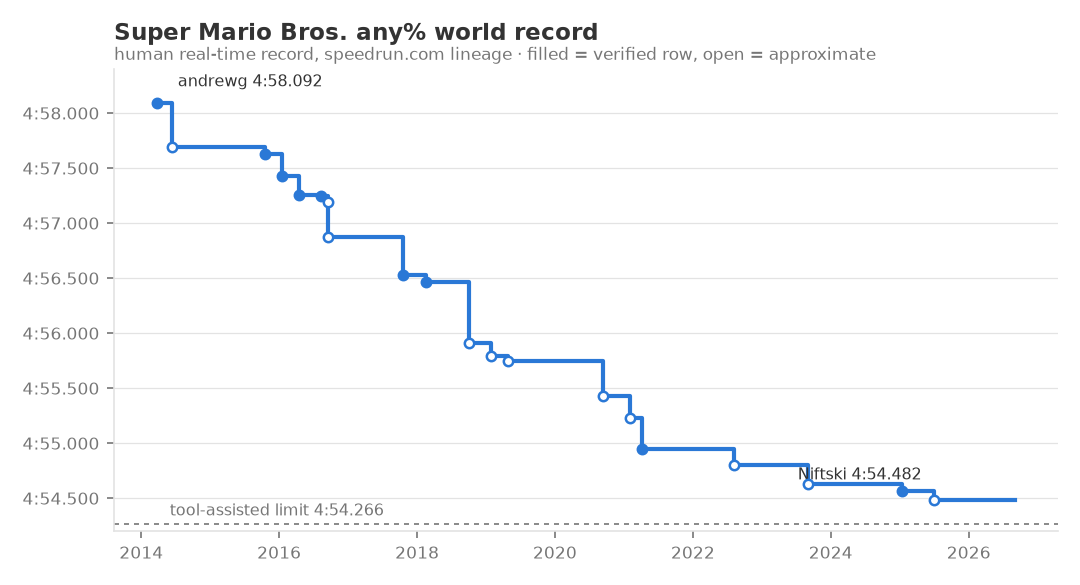
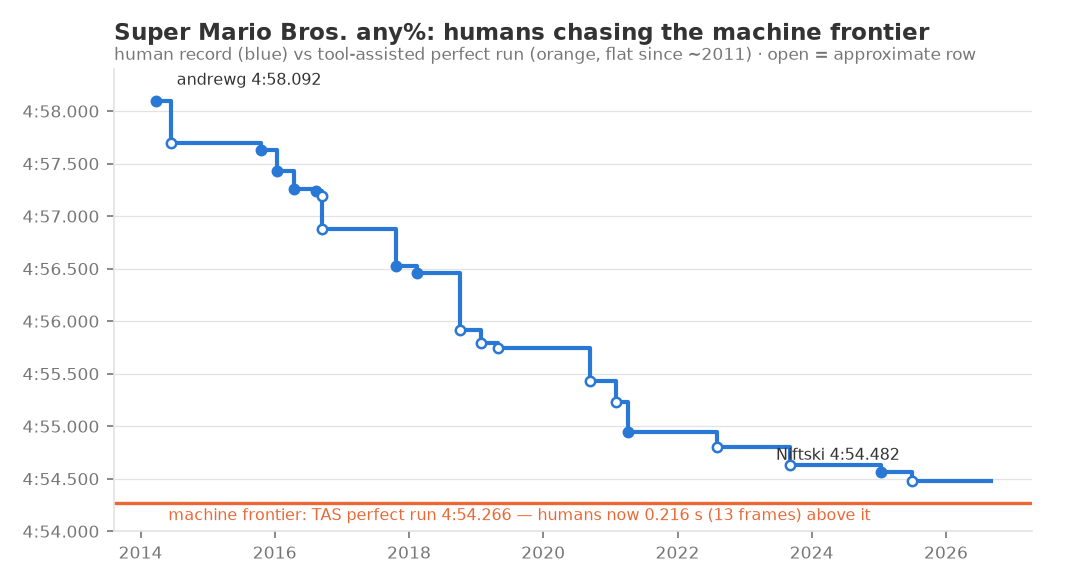
Add machine frontiers to the games mock-ups
StackRabbit's 102M crash score on the Tetris chart, the TAS-perfect
line on SMB1, a best-human FIDE reference on the SSDF chart, and a
machine-milestones.csv with provenance notes. Donkey Kong is labeled
as having no tracked machine frontier.

Claude-Session: https://claude.ai/code/session_01HT5FiqARh2CrU5H6jFSoZ5

diff --git a/drafts/games/mockup_figures.py b/drafts/games/mockup_figures.py
@@ -83,18 +83,18 @@ def smb1(ax):
     rows = load("speedrun-smb1-anypercent.csv", "time_s")
     base_axes(
         ax,
-        "Super Mario Bros. any% world record",
-        "human real-time record, speedrun.com lineage · filled = verified row, open = approximate",
+        "Super Mario Bros. any%: humans chasing the machine frontier",
+        "human record (blue) vs tool-assisted perfect run (orange, flat since ~2011) · open = approximate row",
     )
     draw(ax, rows, "#2a78d6")
-    ax.set_ylim(294.2, 298.4)
+    ax.set_ylim(294.0, 298.4)
     ax.yaxis.set_major_formatter(plt.FuncFormatter(lambda v, _: fmt_time(v)))
     annotate(ax, rows[0][0], rows[0][1], "andrewg 4:58.092", dx=10, ha="left")
     annotate(ax, rows[-1][0], rows[-1][1], "Niftski 4:54.482", dx=-6, dy=10, ha="right")
-    ax.axhline(294.266, color=MUTED, linewidth=0.8, linestyle=(0, (3, 3)))
+    ax.axhline(294.266, color="#eb6834", linewidth=1.6)
     ax.text(
-        dt.date(2014, 6, 1), 294.31, "tool-assisted limit 4:54.266",
-        fontsize=7.5, color=MUTED, va="bottom",
+        dt.date(2014, 6, 1), 294.22, "machine frontier: TAS perfect run 4:54.266 — humans now 0.216 s (13 frames) above it",
+        fontsize=7.5, color="#eb6834", va="top",
     )
 
 
@@ -102,11 +102,16 @@ def ssdf(ax):
     rows = load("chess-ssdf-elo.csv", "elo")
     base_axes(
         ax,
-        "Best chess program on the SSDF rating list",
+        "Best chess program on the SSDF rating list (machine-only series)",
         "SSDF Elo, 1984 – final list 2023 · mostly approximate pending refetch of archived lists",
     )
     draw(ax, rows, "#eb6834", extend=False)
     ax.set_ylabel("SSDF Elo", fontsize=8, color=MUTED)
+    ax.axhline(2882, color=MUTED, linewidth=0.9, linestyle=(0, (3, 3)))
+    ax.text(
+        dt.date(1984, 6, 1), 2895, "best human ever, FIDE 2882 (different rating pool — indicative)",
+        fontsize=7.5, color=MUTED, va="bottom",
+    )
     annotate(ax, rows[0][0], rows[0][1], "Novag Super\nConstellation", dx=14, dy=2, ha="left")
     annotate(ax, dt.date(2008, 9, 15), 3238, "Deep Rybka 3", dx=0, dy=6)
     annotate(ax, rows[-1][0], rows[-1][1], "list discontinued\n2023-12-31", dx=6, dy=-30, ha="right")
@@ -117,12 +122,19 @@ def tetris(ax):
     rows = load("tetris-nes-score.csv", "score")
     base_axes(
         ax,
-        "NES Tetris highest score",
-        "community-tracked score record (log scale) · filled = verified row, open = approximate",
+        "NES Tetris highest score: humans vs the AI's crash score",
+        "human record (aqua) vs StackRabbit AI (orange, log scale) · filled = verified row, open = approximate",
     )
     draw(ax, rows, "#1baf7a")
     ax.set_yscale("log")
-    ax.set_ylim(8e5, 8e7)
+    ax.set_ylim(8e5, 3e8)
+    ai_date, ai_score = dt.date(2021, 7, 15), 102252920
+    ax.axhline(ai_score, color="#eb6834", linewidth=1.2, linestyle=(0, (5, 3)))
+    ax.plot(ai_date, ai_score, "s", ms=6, color="#eb6834", zorder=4)
+    ax.text(
+        dt.date(2009, 8, 1), 1.18e8, "StackRabbit (AI, 2021): 102.3M, level 237, crashes the game",
+        fontsize=7.5, color="#eb6834", va="bottom",
+    )
     ax.yaxis.set_major_formatter(plt.FuncFormatter(lambda v, _: f"{v / 1e6:g}M"))
     ax.axhline(999999, color=MUTED, linewidth=0.8, linestyle=(0, (3, 3)))
     ax.text(dt.date(2009, 8, 1), 1.05e6, "display cap 999,999", fontsize=7.5, color=MUTED, va="bottom")
@@ -134,8 +146,8 @@ def dk(ax):
     rows = load("donkey-kong-score.csv", "score")
     base_axes(
         ax,
-        "Donkey Kong arcade high score",
-        "world record score, 1982–2026 · filled = verified row, open = approximate/disputed",
+        "Donkey Kong arcade high score (no machine frontier tracked)",
+        "world record, 1982–2026, pressed against the level-22 kill screen · open = approximate/disputed",
     )
     draw(ax, rows, "#4a3aa7")
     ax.set_ylim(830000, 1330000)

diff --git a/drafts/games/README.md b/drafts/games/README.md
@@ -34,6 +34,27 @@ Billy Mitchell scores (stricken 2018, reinstated 2020); NES Tetris switches
 regime in 2021 when the rolling technique made the 999,999 display cap
 irrelevant; the SMB1 record is 0.216 s above the tool-assisted limit.
 
+## Machine frontiers
+
+`machine-milestones.csv` holds the computer-play side where one is tracked,
+and the figures draw it against the human series:
+
+- **SMB1** — the tool-assisted perfect run (4:54.266 RTA-equivalent) has been
+  flat since ~2011; the human record is now 13 frames above it. The real
+  machine series to fetch is the TASVideos publication history (dated
+  obsoletion chain), which needs consistent re-timing to RTA before it can
+  share an axis with the human records.
+- **NES Tetris** — StackRabbit (Greg Cannon's AI) scored 102,252,920 and
+  crashed the game at level 237 in 2021, pre-dating every human beyond-cap
+  milestone; the human record (40.3M) is closing on it.
+- **Chess (SSDF)** — the series is machine-only already; the figure adds the
+  best-ever human FIDE rating (2882) as an indicative reference, with the
+  caveat that SSDF and FIDE are different rating pools.
+- **Donkey Kong** — no notable machine play is tracked; the binding constraint
+  is the game's own level-22 kill screen. Community perfect-game estimates
+  (e.g. 1,265,000 in the FiveThirtyEight era) have already been exceeded by
+  the human record, so no ceiling line is drawn.
+
 ## Promoting a series
 
 To turn one of these into a real problem folder: re-fetch every `approx*` row
